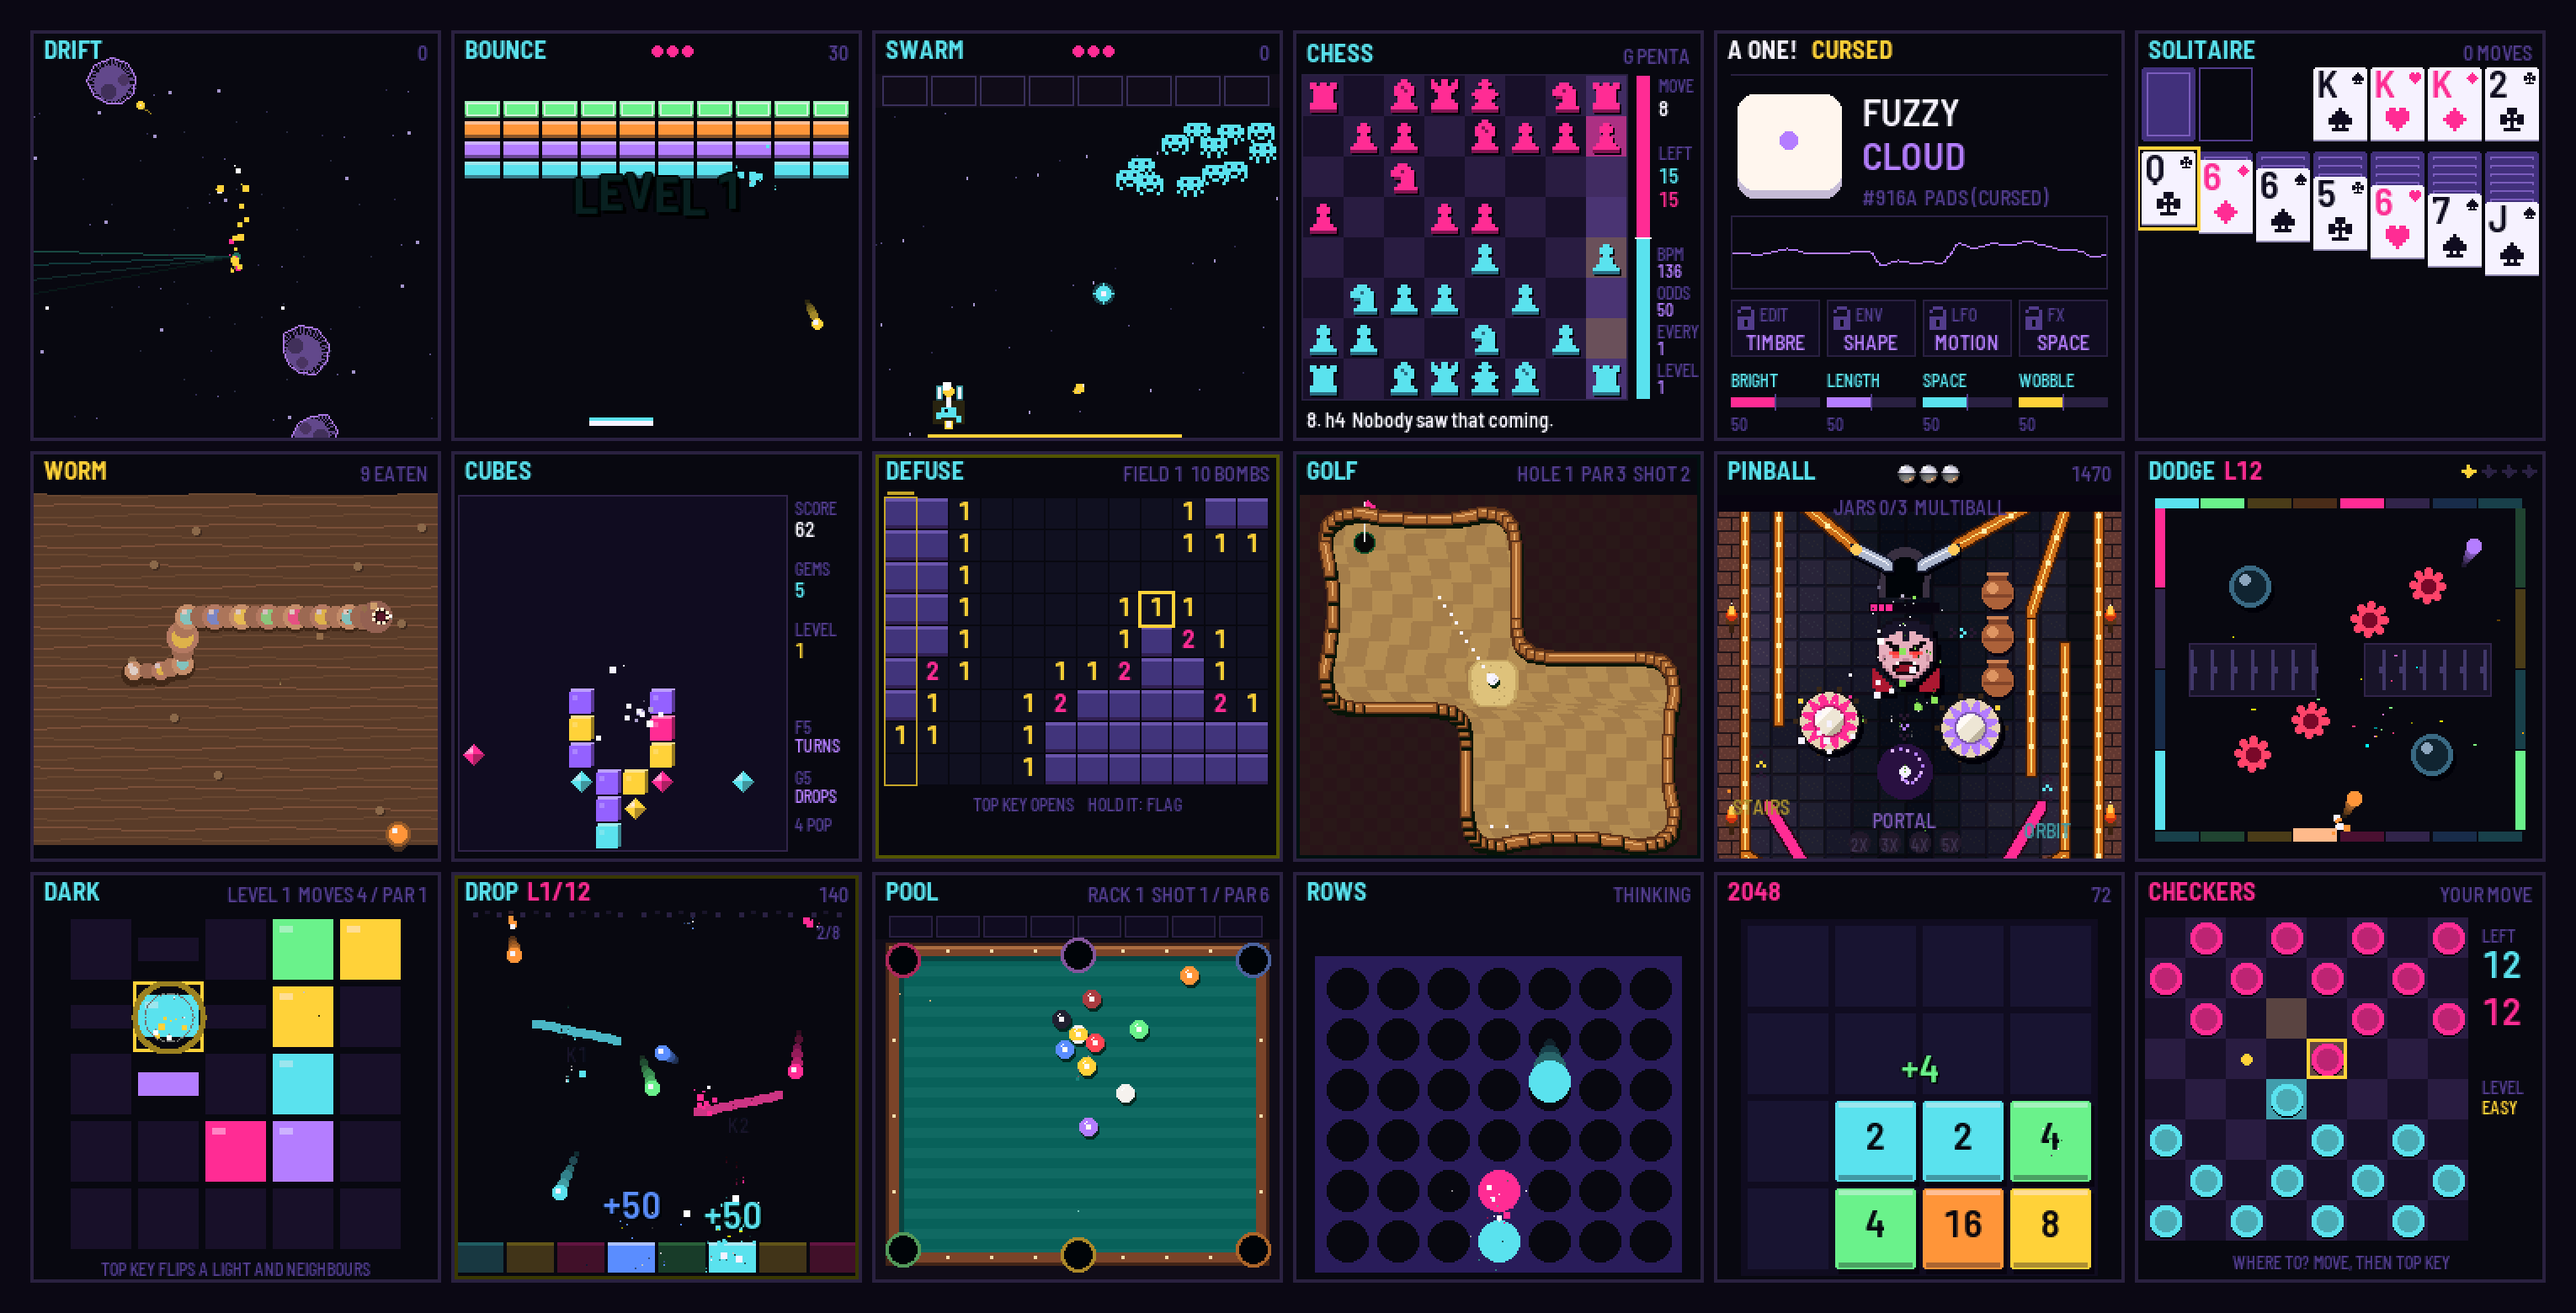
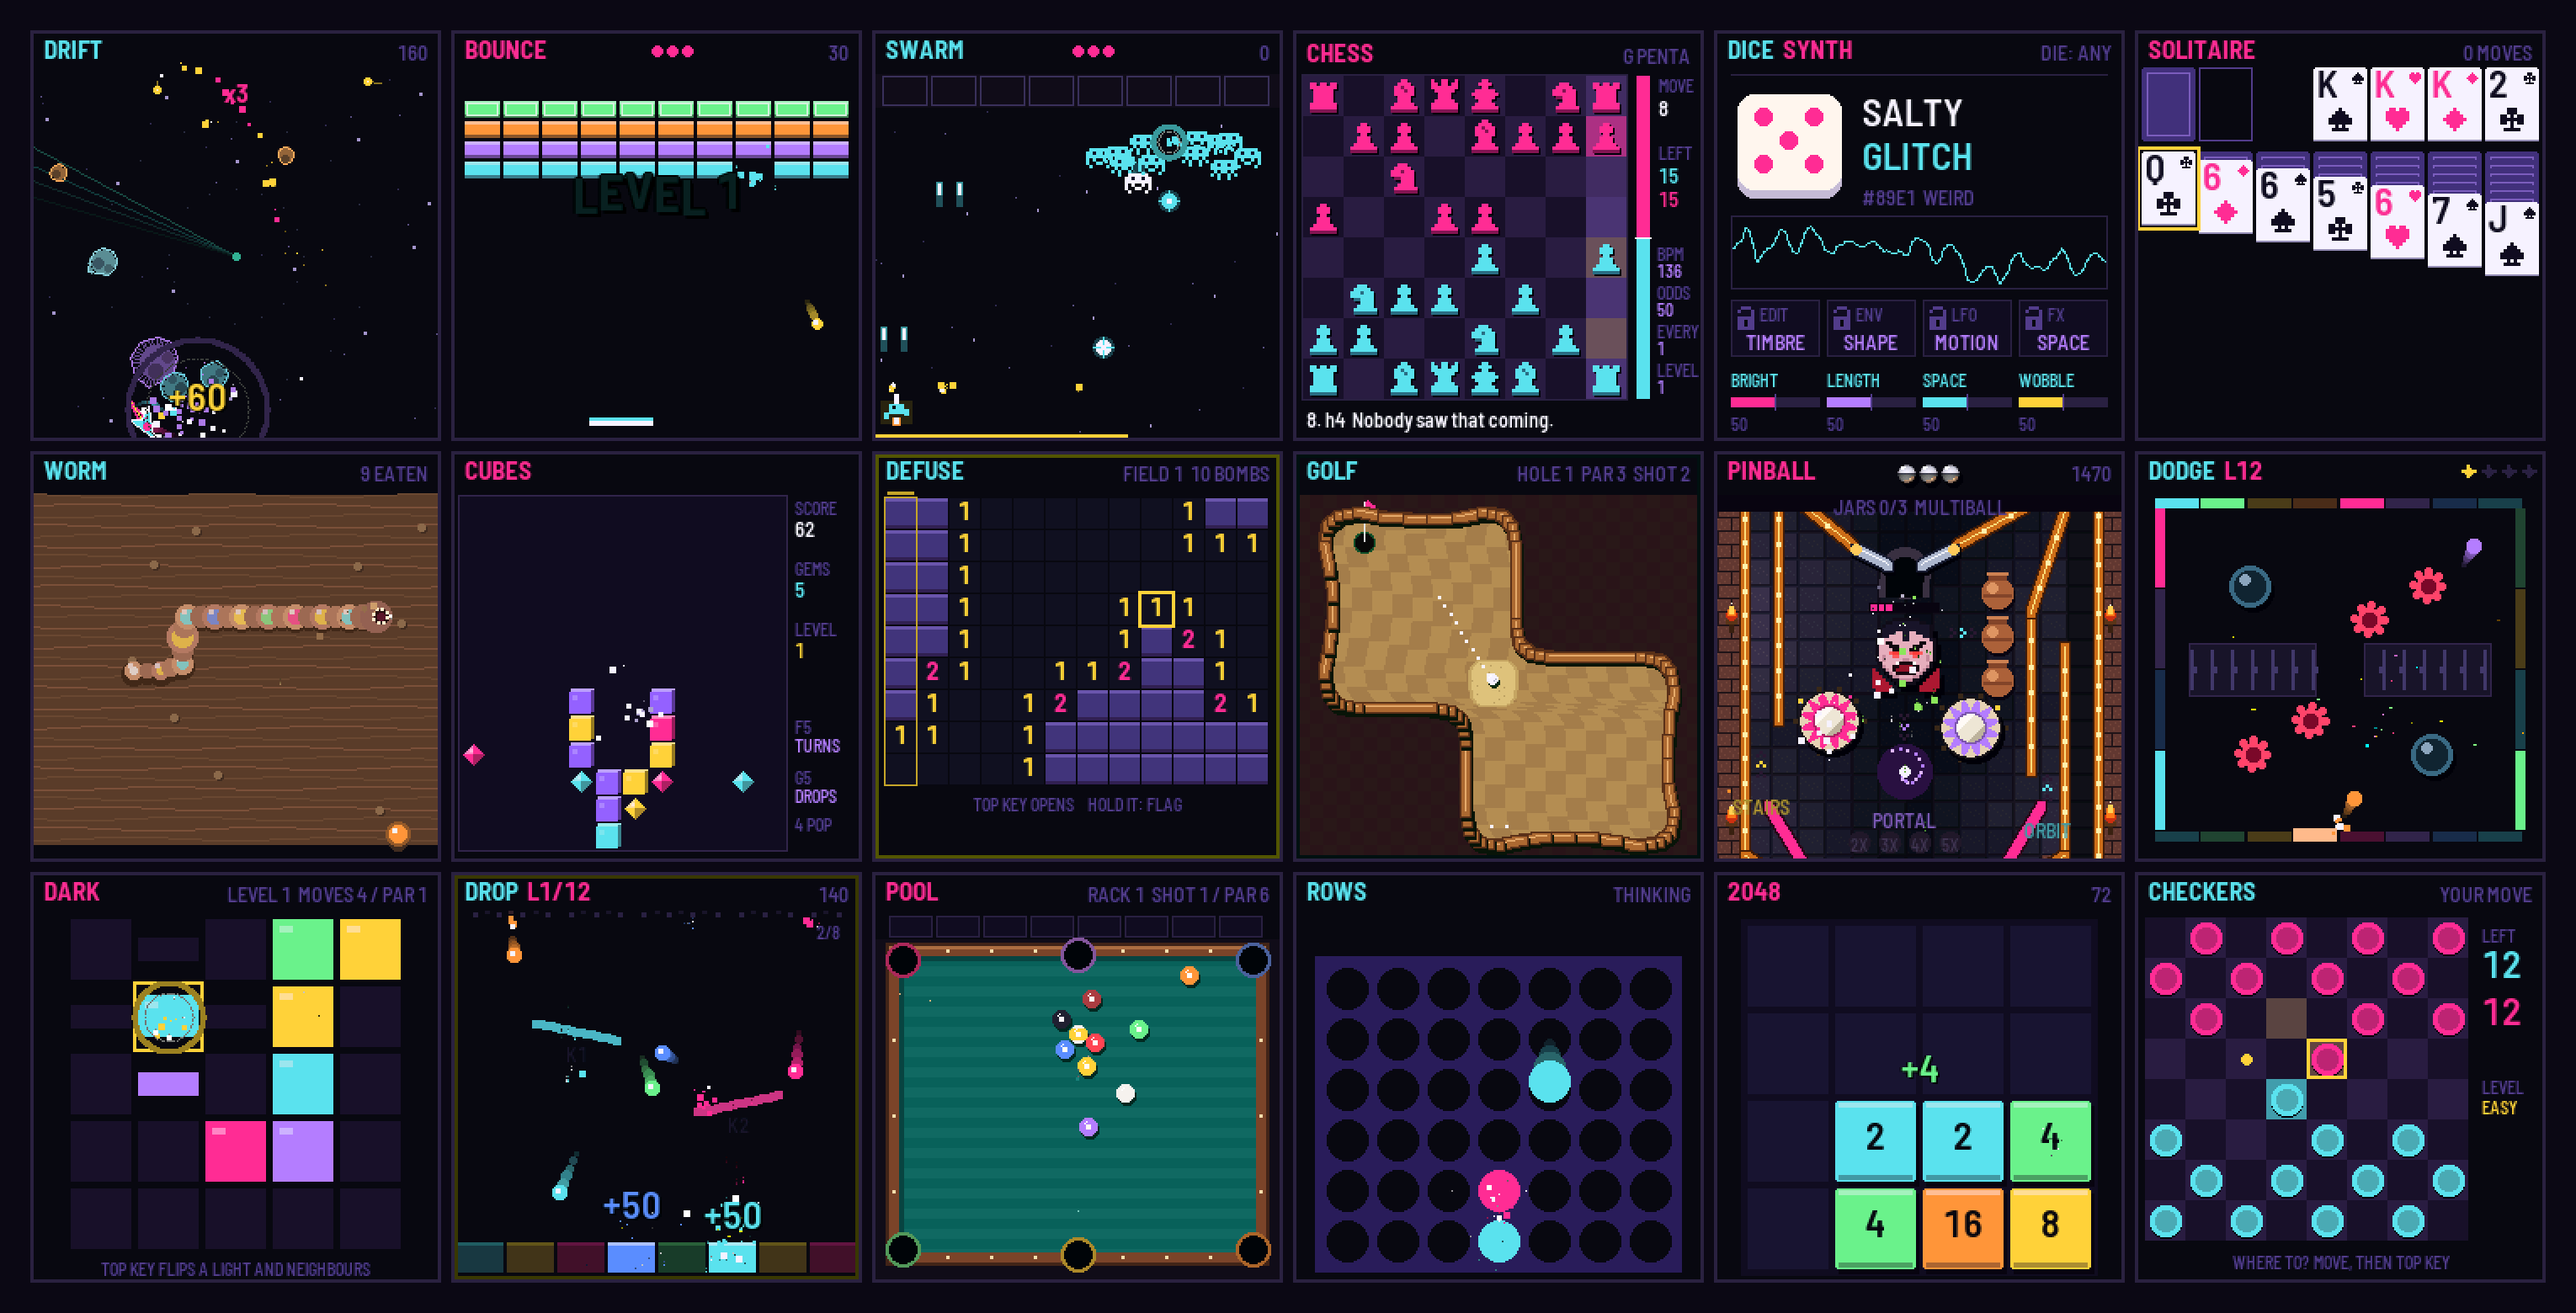
Game titles in cyan and pink in turn, a checkerboard across each menu page; the games grid re-shot (new Drift, Swarm and Dice Synth)

diff --git a/app/app.c b/app/app.c
@@ -647,6 +647,7 @@ static void arena_clear(void)
 }
 
 /* a game's header: its name in two colours, a word on the right; a message over it for a moment */
+/* the games' titles: cyan and pink in turn across each menu page, a checkerboard like the logo (Nick, 20 Nov 2026) */
 static void header(const char *a, uint16_t ca, const char *b, uint16_t cb, const char *right)
 {
     int32_t x;
@@ -1567,7 +1568,7 @@ static void chess_scene(void)
         x = cv_text(6, 4, &FONT_B, ui.msg[0], C_INK);
         cv_text(x + 8, 4, &FONT_B, ui.msg[1], C_YEL);
     } else {
-        cv_text(6, 4, &FONT_B, "CHESS", C_CYAN);
+        cv_text(6, 4, &FONT_B, "CHESS", C_PINK);
         if (st.vs)
             tcpy(t, st.vs == 2 ? (pos.side > 0 ? "P1 (CYAN)" : "P2 (PINK)") : DIFF_NAME[st.depth]);
         else

diff --git a/app/board2.h b/app/board2.h
@@ -371,7 +371,7 @@ static void ck_scene(void)
     }
     const char *who = ck.over ? "" : players == 2 ? (ck.p.side > 0 ? "P1 (CYAN)" : "P2 (PINK)")
                                                   : ck.p.side > 0 ? "YOUR MOVE" : "THINKING";
-    header("CHECKERS", C_PINK, "", C_PINK, who);
+    header("CHECKERS", C_CYAN, "", C_PINK, who);
     for (r = 0; r < 8; r++)
         for (c = 0; c < 8; c++) {
             int32_t x = 4 + c * 24, y = 25 + (7 - r) * 24, sq = r * 8 + c, pc = ck.p.b[r][c];

diff --git a/app/cube.h b/app/cube.h
@@ -601,7 +601,7 @@ static void cu_scene(void)
     int y, x, i;
     char n[12];
     uint32_t ms = plat_ms();
-    header("CUBES", C_CYAN, "", C_PINK, cu.over ? "THE END" : "");
+    header("CUBES", C_PINK, "", C_PINK, cu.over ? "THE END" : "");
     cv_rect(WX - 1, WY - 1, WW * CELL + 2, WH * CELL + 2, RGB(18, 13, 32));
     {                                    /* the frame breathes with the beat */
         uint32_t beat = (ms * cu_bpm() / 60000u), ph = (ms * cu_bpm() / 600u) % 100u;

diff --git a/app/games2.h b/app/games2.h
@@ -215,7 +215,7 @@ static void sn_scene(void)
     uint32_t ms = plat_ms();
     itos(sn.len - 3, n);
     tcat(n, " EATEN");
-    header("WORM", C_YEL, "", C_PINK, n);
+    header("WORM", C_CYAN, "", C_PINK, n);
     {                                    /* the desert at dusk: sand, its ripples drifting in the wind, a few stones */
         int32_t y, x;
         cv_rect(0, SN_Y, SN_W * SN_C, SN_H * SN_C, RGB(92, 60, 42));

diff --git a/app/pool.h b/app/pool.h
@@ -595,7 +595,7 @@ static void po_scene(void)
     tcat(s, " / PAR ");                  /* (no points: shots against par, as golf) */
     itos(PO_PAR, n);
     tcat(s, n);
-    header("POOL", C_CYAN, "", C_PINK, s);
+    header("POOL", C_PINK, "", C_PINK, s);
     if (po.phase == 2) {                 /* the table cleared: its card */
         cv_rect(36, 92, 168, 80, C_BG);
         frame_rect(36, 92, 168, 80, C_YEL);

diff --git a/app/pinball.h b/app/pinball.h
@@ -1461,7 +1461,7 @@ static void pb_scene(void)
         text_c(120, 24, &FONT_XS, g, gc);
     }
     itos((int32_t)pb.score, s);
-    header("PINBALL", C_CYAN, "", C_PINK, s);
+    header("PINBALL", C_PINK, "", C_PINK, s);
     for (i = 0; i < pb.balls && i < 5; i++)   /* the balls left, and the multiplier */
         pb_steel_ball(112 + i * 13, 11, 40);
     if (pb.mult > 1) {

diff --git a/app/games3.h b/app/games3.h
@@ -159,7 +159,7 @@ static void li_scene(void)
     tcat(t, " / PAR ");
     itos(li.par, n);
     tcat(t, n);
-    header("DARK", C_CYAN, "", C_CYAN, t);
+    header("DARK", C_PINK, "", C_CYAN, t);
     for (i = 0; i < 25; i++) {
         int32_t x = 22 + (i % 5) * 40, y = 26 + (i / 5) * 40;
         uint32_t ft = li.flash_t[i];

diff --git a/app/soli.h b/app/soli.h
@@ -515,7 +515,7 @@ static void so_scene(void)
     itos(so.moves, n);
     tcpy(t, n);
     tcat(t, " MOVES");
-    header("SOLITAIRE", C_CYAN, "", C_CYAN, t);
+    header("SOLITAIRE", C_PINK, "", C_CYAN, t);
     /* the top row */
     if (so.ns)
         so_card(SO_X(0), SO_TOP, so.stock[so.ns - 1] & ~CARD_UP);

diff --git a/app/arcade.h b/app/arcade.h
@@ -449,7 +449,7 @@ static void br_scene(void)
     int r, c;
     char n[12];
     itos((int32_t)br.score, n);
-    header("BOUNCE", C_CYAN, "", C_PINK, n);
+    header("BOUNCE", C_PINK, "", C_PINK, n);
     lives_draw(br.lives);
     for (r = 0; r < 6; r++)
         for (c = 0; c < 10; c++)
